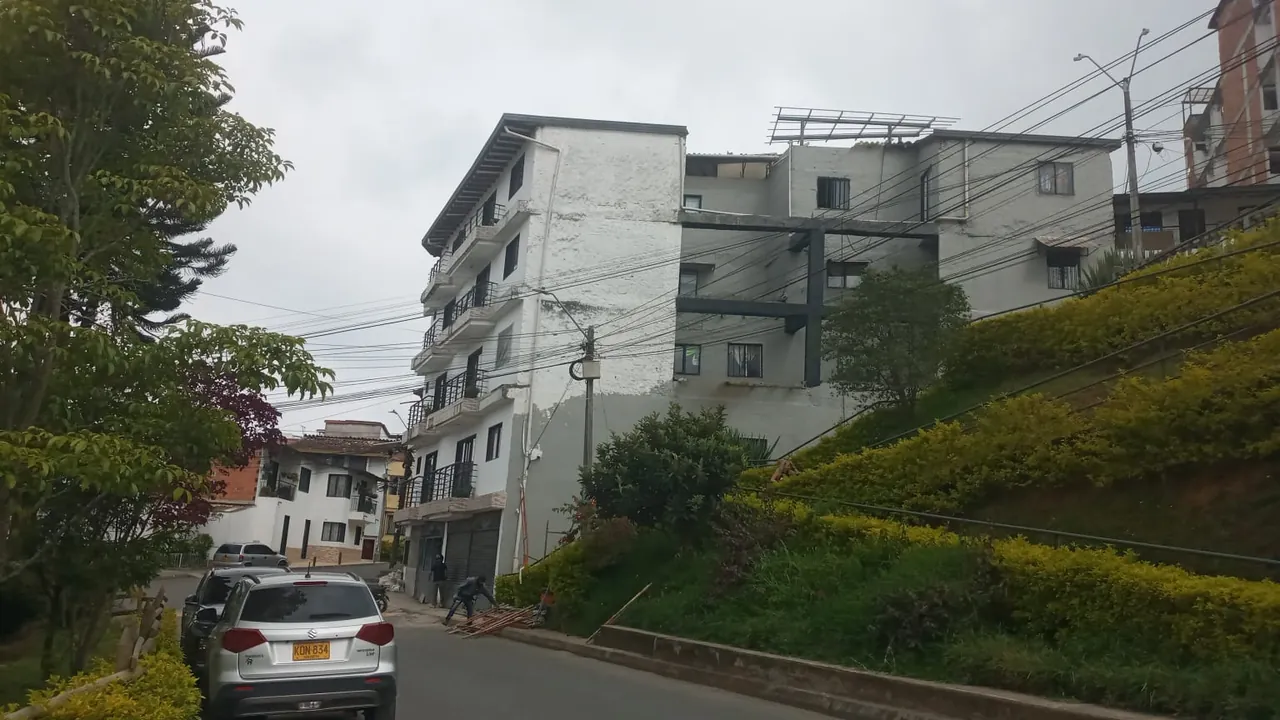
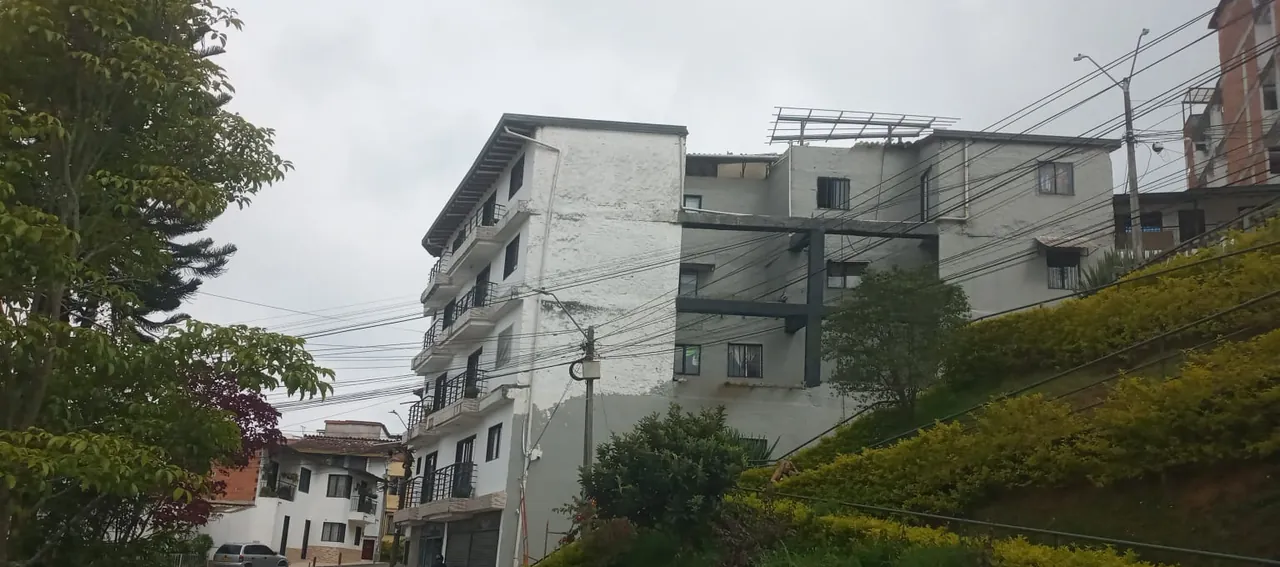
Pulir descripciones y encuadre de galería

diff --git a/index.html b/index.html
@@ -186,7 +186,7 @@ body{background:#040b16}.header{background:#06101df2;border-color:#72b5ff24}.nav
 <main id="contenido">
 <section class="hero" id="inicio" aria-labelledby="hero-title"><img class="hero-image" src="assets/blue-architecture-hero.webp" alt="Visualización conceptual de vivienda contemporánea con acentos azules" fetchpriority="high" width="1600" height="1200"><div class="hero-overlay"></div><svg class="construction-lines hero-blueprint" viewBox="0 0 720 560" aria-hidden="true" focusable="false"><g fill="none" stroke="currentColor" stroke-width="2" stroke-linejoin="round"><path class="build-line" d="M72 454H660M150 442V255L345 124l212 131v187M130 269l215-145 232 145M150 256l195 92 212-93M345 348v94M150 345l195 97 212-97M150 442l195 94 212-94M192 281v139M242 304v139M292 327v139M397 325v139M449 303v139M503 281v139M345 124v224M106 479l239 57 254-68M106 485v22M599 473v22M112 494h22m430-14h22"/><path class="build-line detail-line" d="M160 220v-75l185-90 196 91v75M160 145l185 98 196-97M345 55v188M203 424v-64m40 83v-64m185 82v-64m43 43v-64"/></g></svg><div class="container hero-grid"><div class="hero-copy"><span class="eyebrow">Construhogar · Marinilla</span><h1 id="hero-title">Construcción<br><span>para su proyecto.</span></h1><p class="hero-lead">Estructuras metálicas, remodelación y servicios locativos en Marinilla.</p><div class="hero-actions"><button class="button button-primary" type="button" data-open-agenda data-service="Consulta general">Cotizar <span aria-hidden="true">↗</span></button><a class="button button-outline" href="#servicios">Explorar servicios <span aria-hidden="true">↓</span></a></div></div><aside class="hero-aside"><div class="hero-aside-top"><span class="status-dot" aria-hidden="true"></span><strong>Servicios de construcción</strong></div><p>Construcción metálica, remodelación y servicios locativos.</p><div class="hero-chips"><span class="chip">Construcción</span><span class="chip">Remodelación</span><span class="chip">Servicios locativos</span></div></aside></div><span class="hero-caption">Construcción metálica · Remodelación · Servicios locativos</span></section>
 <section class="section services" id="servicios" aria-labelledby="services-title"><div class="container"><div class="section-heading"><span class="eyebrow">Servicios</span><h2 id="services-title">Manos a la obra.</h2><p>Construcción, remodelación y servicios técnicos.</p></div><div class="services-grid"><article class="service-card"><span class="service-no">01 / PROYECTO</span><span class="service-icon" aria-hidden="true"><svg viewBox="0 0 24 24" fill="none" stroke="currentColor" stroke-width="1.8" stroke-linecap="round" stroke-linejoin="round"><path d="m3 10 9-7 9 7v10a1 1 0 0 1-1 1h-6v-7h-4v7H4a1 1 0 0 1-1-1z"/><path d="M7 11h.01M17 11h.01"/></svg></span><h3>Construcción</h3><p>Estructuras metálicas, construcción tradicional y liviana.</p><button class="button button-primary button-small" type="button" data-open-agenda data-service="Construcción">Cotizar construcción ↗</button></article><article class="service-card"><span class="service-no">02 / TRANSFORMACIÓN</span><span class="service-icon" aria-hidden="true"><svg viewBox="0 0 24 24" fill="none" stroke="currentColor" stroke-width="1.8" stroke-linecap="round" stroke-linejoin="round"><path d="M4 20V9l8-6 8 6v11M2 20h20M9 20v-6h6v6M5 9h14"/><path d="m16 5 3 3"/></svg></span><h3>Remodelación</h3><p>Drywall, techos suspendidos, pintura y acabados.</p><button class="button button-primary button-small" type="button" data-open-agenda data-service="Remodelación">Cotizar remodelación ↗</button></article><article class="service-card"><span class="service-no">03 / REPARACIÓN</span><span class="service-icon" aria-hidden="true"><svg viewBox="0 0 24 24" fill="none" stroke="currentColor" stroke-width="1.8" stroke-linecap="round" stroke-linejoin="round"><path d="M14.7 6.3a5 5 0 0 0-6.5 6.5L3 18l3 3 5.2-5.2a5 5 0 0 0 6.5-6.5l-3 3-3.5-3.5z"/><path d="M19 4v4M17 6h4"/></svg></span><h3>Servicios locativos</h3><p>Electricidad, plomería, fachadas, goteras, techos y canoas.</p><button class="button button-primary button-small" type="button" data-open-agenda data-service="Servicios locativos">Solicitar servicio ↗</button></article></div><div class="service-footer"><span>Servicios sujetos a evaluación y cotización.</span><a class="text-link" href="#preguntas">Resolver dudas <span aria-hidden="true">→</span></a></div></div></section>
-<section class="section project-gallery" id="trabajos" aria-labelledby="gallery-title"><div class="container"><div class="gallery-heading"><span class="eyebrow">Construcción · Remodelación · Estructura</span><h2 id="gallery-title">Construcción, estructura y acabados.</h2><p>Estructuras metálicas, obra civil y remodelación.</p></div><div class="project-grid"><figure class="project-photo project-photo-feature"><img src="assets/obra-estructura-edificio.webp" alt="Estructura metálica integrada a una edificación" width="1280" height="720" loading="lazy" decoding="async"><figcaption><strong>Estructuras metálicas</strong><span>Acero integrado a edificación</span></figcaption></figure><figure class="project-photo"><img src="assets/obra-vigas-estructura.webp" alt="Viga y elementos de estructura en proceso de obra" width="720" height="1280" loading="lazy" decoding="async"><figcaption><strong>Armado de estructura</strong><span>Vigas de acero</span></figcaption></figure><figure class="project-photo"><img src="assets/obra-soldadura-perfil-metalico.webp" alt="Perfiles metálicos metálicos" width="1280" height="720" loading="lazy" decoding="async"><figcaption><strong>Trabajo en acero</strong><span>Preparación y unión de perfiles</span></figcaption></figure><figure class="project-photo"><img src="assets/obra-armadura-acero.webp" alt="Armadura de refuerzo de refuerzo preparada para obra" width="960" height="1280" loading="lazy" decoding="async"><figcaption><strong>Refuerzo estructural</strong><span>Armadura de acero</span></figcaption></figure><figure class="project-photo"><img src="assets/obra-estructura-cubierta.webp" alt="Estructura metálica de cubierta durante construcción" width="1280" height="720" loading="lazy" decoding="async"><figcaption><strong>Estructura de cubierta</strong><span>Estructura de cubierta</span></figcaption></figure><figure class="project-photo"><img src="assets/remodelacion-cocina-acabados.webp" alt="Mueble de cocina y acabados de remodelación" width="1280" height="960" loading="lazy" decoding="async"><figcaption><strong>Remodelación interior</strong><span>Mueble y acabados</span></figcaption></figure><figure class="project-photo"><img src="assets/instalacion-ventaneria.webp" alt="Instalación de ventana y marco en espacio interior" width="960" height="1280" loading="lazy" decoding="async"><figcaption><strong>Instalaciones</strong><span>Ventanería</span></figcaption></figure></div><p class="gallery-note">Alcance y cotización según cada proyecto.</p></div></section>
+<section class="section project-gallery" id="trabajos" aria-labelledby="gallery-title"><div class="container"><div class="gallery-heading"><span class="eyebrow">Construcción · Remodelación · Estructura</span><h2 id="gallery-title">Construcción, estructura y acabados.</h2><p>Estructuras metálicas, obra civil y remodelación.</p></div><div class="project-grid"><figure class="project-photo project-photo-feature"><img src="assets/obra-estructura-edificio.webp" alt="Vista exterior de una edificación con trabajo en estructura" width="1280" height="567" loading="lazy" decoding="async"><figcaption><strong>Estructura en edificación</strong><span>Vista exterior de obra</span></figcaption></figure><figure class="project-photo"><img src="assets/obra-vigas-estructura.webp" alt="Vista de vigas y estructura en una edificación" width="720" height="1280" loading="lazy" decoding="async"><figcaption><strong>Vigas y estructura</strong><span>Vista desde el exterior</span></figcaption></figure><figure class="project-photo"><img src="assets/obra-soldadura-perfil-metalico.webp" alt="Preparación y unión de perfiles metálicos" width="1280" height="720" loading="lazy" decoding="async"><figcaption><strong>Trabajo en acero</strong><span>Preparación y unión de perfiles</span></figcaption></figure><figure class="project-photo"><img src="assets/obra-armadura-acero.webp" alt="Armadura de acero preparada para obra" width="960" height="1280" loading="lazy" decoding="async"><figcaption><strong>Armado de acero</strong><span>Detalle de refuerzo</span></figcaption></figure><figure class="project-photo"><img src="assets/obra-estructura-cubierta.webp" alt="Estructura metálica de cubierta durante construcción" width="1280" height="720" loading="lazy" decoding="async"><figcaption><strong>Estructura de cubierta</strong><span>Trabajo en obra</span></figcaption></figure><figure class="project-photo"><img src="assets/remodelacion-cocina-acabados.webp" alt="Mueble de cocina y acabados de remodelación" width="1280" height="960" loading="lazy" decoding="async"><figcaption><strong>Remodelación interior</strong><span>Mueble y acabados</span></figcaption></figure><figure class="project-photo"><img src="assets/instalacion-ventaneria.webp" alt="Instalación de ventana y marco en espacio interior" width="960" height="1280" loading="lazy" decoding="async"><figcaption><strong>Instalaciones</strong><span>Ventanería</span></figcaption></figure></div><p class="gallery-note">Alcance y cotización según cada proyecto.</p></div></section>
 <section class="section model-section" id="modelo" aria-labelledby="model-title"><div class="container model-grid"><div class="model-copy"><span class="eyebrow">Casa campestre</span><h2 id="model-title">Casa campestre en estructura metálica.</h2><span class="model-badge"><span class="model-badge-metal">Estructura metálica</span><svg viewBox="0 0 24 24" fill="none" stroke="currentColor" stroke-width="1.8"><path d="M12 3 3.5 7.5v9L12 21l8.5-4.5v-9zM3.5 7.5 12 12l8.5-4.5M12 12v9"/></svg>Modelo 3D interactivo</span><p>Casa campestre en estructura metálica: un nivel, dos habitaciones, un baño y sala-cocina. Lote de 200 m² y vivienda de aproximadamente 60 m².</p><div class="model-facts"><div class="model-fact"><strong>200 m²</strong><span>Lote</span></div><div class="model-fact"><strong>~60 m²</strong><span>Área de vivienda</span></div><div class="model-fact"><strong>1 nivel</strong><span>Casa campestre</span></div><div class="model-fact"><strong>2 habitaciones</strong><span>1 baño · sala-cocina</span></div></div><div class="model-controls" role="group" aria-label="Vistas de la maqueta"><button class="view-btn" type="button" data-view="front" aria-pressed="true">Frente</button><button class="view-btn" type="button" data-view="side" aria-pressed="false">Lateral</button><button class="view-btn" type="button" data-view="top" aria-pressed="false">Superior</button><button class="view-btn" type="button" data-view="reset" aria-pressed="false">Reiniciar</button></div><p class="model-help">Arrastre para girar · rueda o pellizco para acercar</p><div class="model-program" aria-label="Programa de vivienda mencionado"><strong>Distribución</strong><span>Un nivel · Dos habitaciones · Un baño · Sala-cocina</span><small>Propuesta conceptual; diseño por definir.</small></div><div class="project-terms"><p><strong>Ubicación:</strong> aproximadamente a 8 minutos del Alto del Chocho.</p><p><strong>Valor estimado:</strong> aproximadamente $100 millones COP por lote y vivienda; valor final y disponibilidad por confirmar.</p><p><strong>Lote en proindiviso:</strong> acompañamiento para revisar documentos y condiciones de escritura.</p></div><button class="button button-primary button-small" type="button" data-open-agenda data-service="Consulta de vivienda y lote">Consultar esta propuesta ↗</button></div><div><div class="viewer" id="home-viewer" aria-label="Modelo conceptual interactivo de casa campestre de un nivel" aria-busy="false"><canvas id="house-canvas" aria-label="Maqueta 3D conceptual: un nivel, dos habitaciones, baño y sala-cocina"></canvas><div class="viewer-loader" id="viewer-loader" hidden>Preparando modelo…</div><div class="viewer-fallback"><div><strong>Vista 3D no disponible</strong><span>Puede consultar esta propuesta con Construhogar.</span><br><button class="button button-primary button-small" type="button" data-open-agenda data-service="Consulta de vivienda y lote">Consultar vivienda ↗</button></div></div><div class="viewer-top"><span class="viewer-label">VIVIENDA · MODELO INTERACTIVO</span><span class="viewer-label">3D</span></div><div class="viewer-bottom"><span class="viewer-instruction">Arrastre · Zoom · Vistas</span><span class="viewer-instruction">No está a escala</span></div></div><p class="model-footnote">Visualización conceptual sin escala. Distribución, diseño y condiciones se confirman al cotizar.</p></div></div></section>
 <section class="section questions" id="preguntas" aria-labelledby="faq-title"><div class="container question-layout"><div class="question-intro"><span class="eyebrow">Información útil</span><h2 id="faq-title">Dudas comunes.</h2><button class="button button-primary button-small" type="button" data-open-agenda data-service="Consulta general">Cotizar ↗</button></div><div class="faq-list"><details class="faq-item"><summary>¿Qué trabajos realizan?</summary><div class="faq-answer"><p>Estructuras metálicas, construcción tradicional y liviana, remodelación, drywall, techos, pintura, acabados, electricidad, plomería, fachadas, goteras y canoas.</p></div></details><details class="faq-item"><summary>¿Cómo solicito una cotización?</summary><div class="faq-answer"><p>Cuéntenos el trabajo y su ubicación por WhatsApp.</p></div></details><details class="faq-item"><summary>¿La visita queda agendada?</summary><div class="faq-answer"><p>No. Es una solicitud sujeta a confirmación.</p></div></details><details class="faq-item"><summary>¿La maqueta es definitiva?</summary><div class="faq-answer"><p>Es conceptual; diseño y medidas requieren revisión técnica.</p></div></details><details class="faq-item"><summary>¿Cuánto cuesta la vivienda?</summary><div class="faq-answer"><p>Valor estimado: alrededor de $100 millones COP por lote y vivienda; valor final, acceso y disponibilidad por confirmar.</p></div></details><details class="faq-item"><summary>¿Dónde están ubicados?</summary><div class="faq-answer"><p>Marinilla · Carrera 34. Coordine su visita.</p></div></details><details class="faq-item"><summary>¿Qué cubre la garantía anunciada?</summary><div class="faq-answer"><p>La garantía anunciada para trabajos eléctricos es de 15 días por temas técnicos y no cubre daños de terceros. Consulte las condiciones al cotizar.</p></div></details></div></div>
 <div class="cta-strip" id="contacto"><div class="container cta-inner"><div><h2>¿Lo cotizamos?</h2><p>Hablemos de su proyecto y sus necesidades por WhatsApp.</p></div><button class="button button-light" type="button" data-open-agenda data-service="Consulta general">Cotizar ↗</button></div></div></section>
